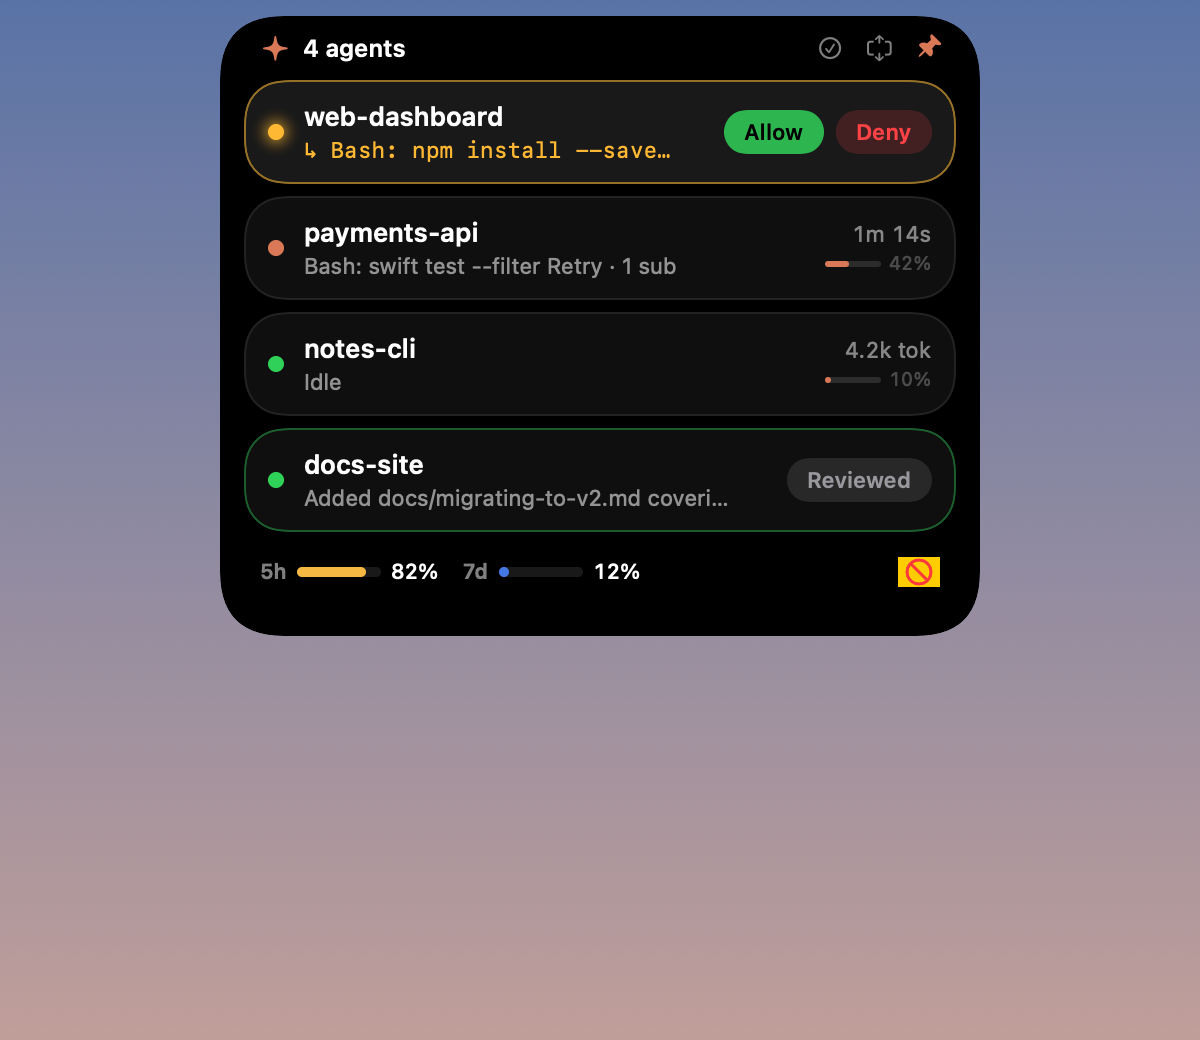
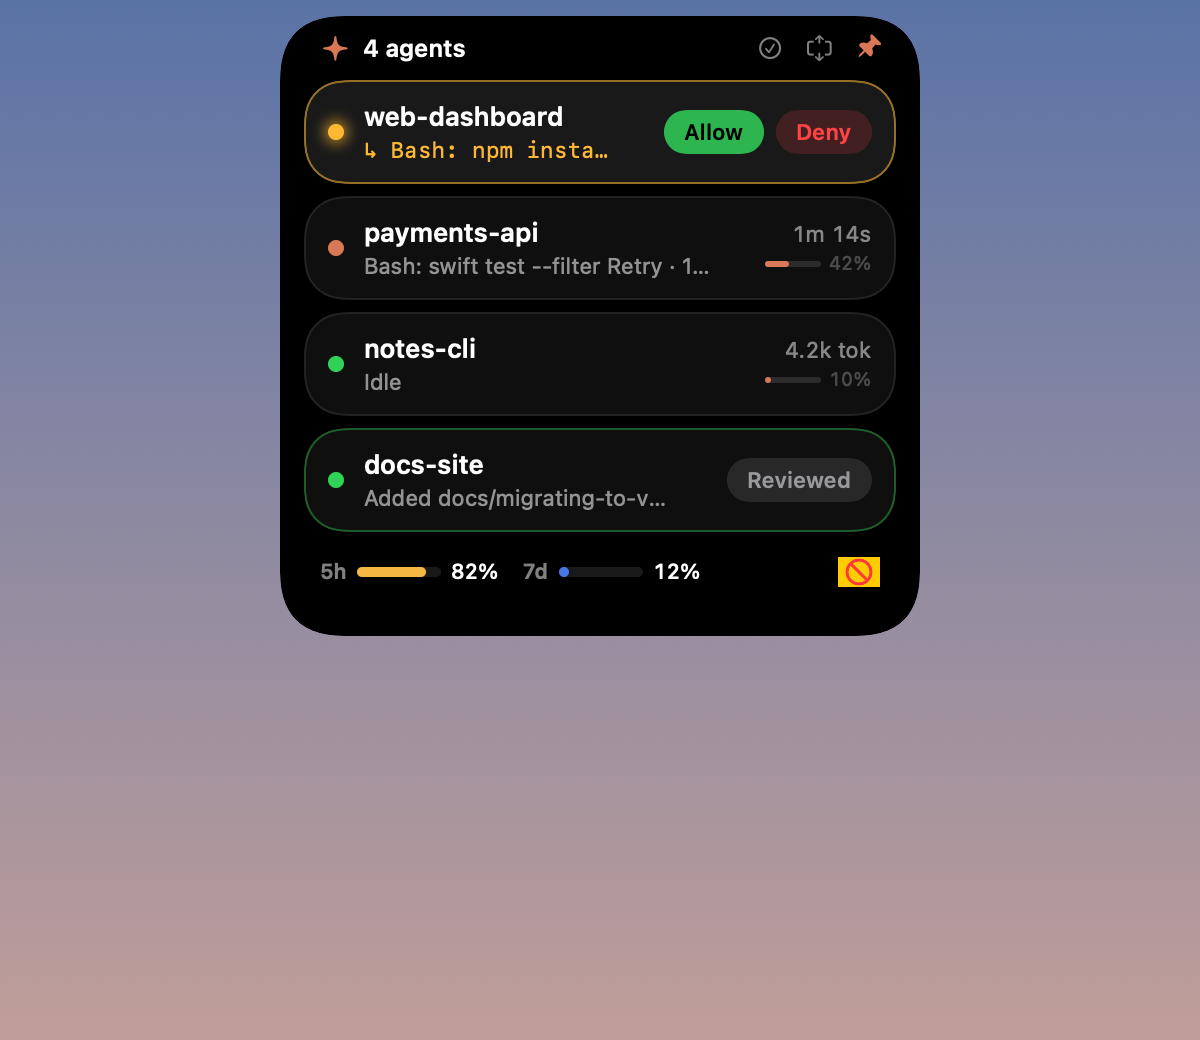
Narrow the island: 320/350/420pt presets, 320pt compact view, trimmed header
Matches the proportions of the system media island (card about five times the cutout width).

Changed region(s): [[0.185, 0.0, 0.8325, 0.6154], [0.6167, 0.0308, 0.6475, 0.0615]]

diff --git a/Sources/ClaudeNotch/Views.swift b/Sources/ClaudeNotch/Views.swift
@@ -269,7 +269,7 @@ struct ExpandedView: View {
                 HStack(spacing: 6) {
                     Image(systemName: "sparkle").foregroundStyle(coral)
                     Text("\(sessions.count) agent\(sessions.count == 1 ? "" : "s")").font(.system(size: 12, weight: .semibold))
-                    if running > 0 { Text("· \(running) sub").font(.system(size: 11)).foregroundStyle(.secondary) }
+
                 }
                 .padding(.leading, 20)
                 Spacer(minLength: geometry.notchWidth)

diff --git a/Sources/ClaudeNotchCore/CompactLayout.swift b/Sources/ClaudeNotchCore/CompactLayout.swift
@@ -7,7 +7,7 @@ public enum CompactLayout {
     public static let maxRows = 6
     public static let overflowHeight: CGFloat = 22
     public static let emptyHeight: CGFloat = 56
-    public static let width: CGFloat = 380
+    public static let width: CGFloat = 320
 
     /// Height of the list area for `count` sessions (rows beyond `maxRows` collapse into one overflow line).
     public static func listHeight(sessionCount count: Int) -> CGFloat {

diff --git a/Sources/ClaudeNotchCore/Preferences.swift b/Sources/ClaudeNotchCore/Preferences.swift
@@ -9,9 +9,9 @@ public struct Preferences: Codable, Equatable, Sendable {
         case compact, regular, wide
         public var points: Double {
             switch self {
-            case .compact: 380;
-            case .regular: 440;
-            case .wide: 520
+            case .compact: 320
+            case .regular: 350
+            case .wide: 420
             }
         }
     }
